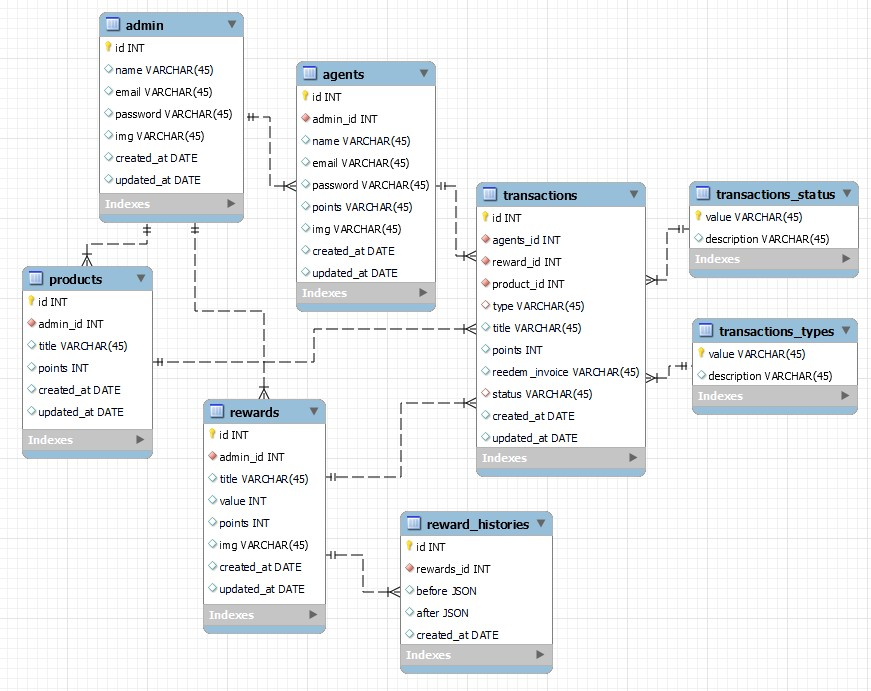
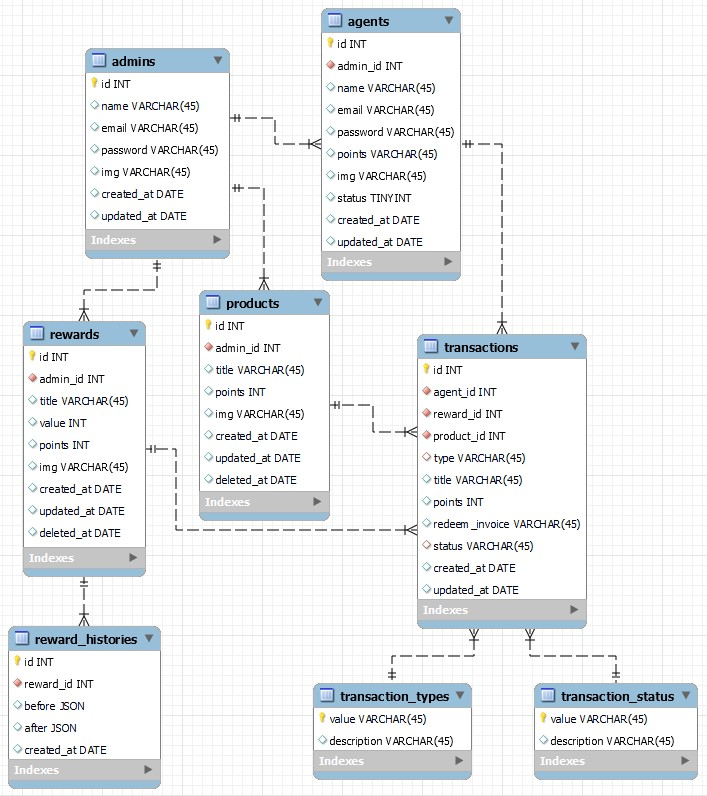
add transaction for admin & agent (#18)

Changed region(s): [[0.0, 0.0, 0.9958, 1.0]]

diff --git a/src/agents/repositories/record.go b/src/agents/repositories/record.go
@@ -3,20 +3,22 @@ package repositories
 import (
 	"github.com/google/uuid"
 	"github.com/yossdev/mypoints-rest-api/src/agents/entities"
+	_t "github.com/yossdev/mypoints-rest-api/src/transactions/repositories"
 	"time"
 )
 
 type Agent struct {
-	ID        uuid.UUID `gorm:"primaryKey; type:uuid; default:uuid_generate_v4()"`
-	AdminID   uuid.UUID `gorm:"type:uuid; not null"`
-	Name      string    `gorm:"not null"`
-	Email     string    `gorm:"unique; not null"`
-	Password  string    `gorm:"not null"`
-	Points    int32     `gorm:"not null; default:0"`
-	Img       string
-	Status    bool      `gorm:"not null; default:true"`
-	CreatedAt time.Time `gorm:"not null; default: now()"`
-	UpdatedAt time.Time `gorm:"not null; default: now()"`
+	ID           uuid.UUID `gorm:"primaryKey; type:uuid; default:uuid_generate_v4()"`
+	AdminID      uuid.UUID `gorm:"type:uuid; not null"`
+	Name         string    `gorm:"not null"`
+	Email        string    `gorm:"unique; not null"`
+	Password     string    `gorm:"not null"`
+	Points       int32     `gorm:"not null; default:0"`
+	Img          string
+	Status       bool             `gorm:"not null; default:true"`
+	Transactions []_t.Transaction `gorm:"constraint:OnUpdate:RESTRICT,OnDelete:RESTRICT;"`
+	CreatedAt    time.Time        `gorm:"not null; default: now()"`
+	UpdatedAt    time.Time        `gorm:"not null; default: now()"`
 }
 
 func (rec *Agent) toDomain() *entities.Domain {

diff --git a/src/transactions/router/http_router.go b/src/transactions/router/http_router.go
@@ -1,0 +1,37 @@
+package router
+
+import (
+	"github.com/yossdev/mypoints-rest-api/internal/middleware"
+	"github.com/yossdev/mypoints-rest-api/internal/web"
+	"github.com/yossdev/mypoints-rest-api/src/transactions/handlers"
+	"github.com/yossdev/mypoints-rest-api/src/transactions/repositories"
+	"github.com/yossdev/mypoints-rest-api/src/transactions/services"
+)
+
+type HttpRouter struct {
+	web.RouterStruct
+}
+
+func NewHttpRoute(r HttpRouter) HttpRouter {
+	return r
+}
+
+func (r *HttpRouter) GetRoute() {
+	transactionPsqlRepository := repositories.NewTransactionPsqlRepository(r.PsqlDB)
+	transactionService := services.NewTransactionService(transactionPsqlRepository)
+	transactionHandler := handlers.NewHttpHandler(transactionService)
+
+	api := r.Web.Group("api")
+	v1 := api.Group("/v1")
+
+	admin := v1.Group("/:admin/transactions") // admin param for agent id
+	agent := v1.Group("/:agent/transactions") // agent param for agent id
+
+	// Private
+	// Agent API only for agent
+	agent.Get("/", middleware.JwtVerifyToken, transactionHandler.GetTransactions)
+	agent.Get("/:id", middleware.JwtVerifyToken, transactionHandler.GetTransactionDetail)
+
+	// Admin API only for admin
+	admin.Get("/", middleware.JwtVerifyToken, transactionHandler.GetTransactionsAdmin)
+}

diff --git a/src/transactions/repositories/record.go b/src/transactions/repositories/record.go
@@ -1,0 +1,32 @@
+package repositories
+
+import (
+	"github.com/google/uuid"
+	"time"
+)
+
+type Transaction struct {
+	ID      uuid.UUID `gorm:"primaryKey; type:uuid; default:uuid_generate_v4()"`
+	AgentID uuid.UUID `gorm:"type:uuid; not null"`
+	//RewardID      int32
+	//ProductID     int32
+	Type          string `gorm:"not null"`
+	Title         string `gorm:"not null"`
+	Points        int32  `gorm:"not null"`
+	RedeemInvoice string
+	Status        string    `gorm:"not null; default:Pending"`
+	CreatedAt     time.Time `gorm:"not null; default: now()"`
+	UpdatedAt     time.Time `gorm:"not null; default: now()"`
+}
+
+type TransactionStatus struct {
+	Value        string        `gorm:"primaryKey; unique"`
+	Description  string        `gorm:"not null"`
+	Transactions []Transaction `gorm:"foreignKey:Status; constraint:OnUpdate:RESTRICT,OnDelete:RESTRICT;"`
+}
+
+type TransactionType struct {
+	Value        string        `gorm:"primaryKey; unique"`
+	Description  string        `gorm:"not null"`
+	Transactions []Transaction `gorm:"foreignKey:Type; constraint:OnUpdate:RESTRICT,OnDelete:RESTRICT;"`
+}

diff --git a/src/transactions/entities/domain.go b/src/transactions/entities/domain.go
@@ -1,0 +1,44 @@
+package entities
+
+import (
+	"github.com/google/uuid"
+	"time"
+)
+
+type Domain struct {
+	ID      uuid.UUID
+	AgentID uuid.UUID
+	//RewardID      int32
+	//ProductID     int32
+	Type          string
+	Title         string
+	Points        int32
+	RedeemInvoice string
+	Status        string
+	CreatedAt     time.Time
+	UpdatedAt     time.Time
+}
+
+type TransactionStatus struct {
+	Value        string
+	Description  string
+	Transactions []Domain
+}
+
+type TransactionType struct {
+	Value        string
+	Description  string
+	Transactions []Domain
+}
+
+type Service interface {
+	GetTransactions() error
+	GetTransactionDetail() error
+	GetTransactionsAdmin() error
+}
+
+type PsqlRepository interface {
+	GetMany() error
+	GetOne() error
+	GetManyAdmin() error
+}

diff --git a/internal/routes/routes.go b/internal/routes/routes.go
@@ -9,6 +9,7 @@ import (
 	"github.com/yossdev/mypoints-rest-api/internal/web"
 	_adminRoute "github.com/yossdev/mypoints-rest-api/src/admins/router"
 	_agentRoute "github.com/yossdev/mypoints-rest-api/src/agents/router"
+	_transactionRoute "github.com/yossdev/mypoints-rest-api/src/transactions/router"
 )
 
 type RouterStruct struct {
@@ -57,6 +58,13 @@ func (r *RouterStruct) GetRoutes() {
 	}
 	agentRouter := _agentRoute.NewHttpRoute(agentRouterStruct)
 	agentRouter.GetRoute()
+
+	// Transaction Route
+	transactionRouterStruct := _transactionRoute.HttpRouter{
+		RouterStruct: webRouterConfig,
+	}
+	transactionRouter := _transactionRoute.NewHttpRoute(transactionRouterStruct)
+	transactionRouter.GetRoute()
 
 	// handling 404 error
 	v1.Use(func(c *fiber.Ctx) error {

diff --git a/src/agents/entities/domain.go b/src/agents/entities/domain.go
@@ -3,20 +3,22 @@ package entities
 import (
 	"github.com/google/uuid"
 	"github.com/yossdev/mypoints-rest-api/internal/utils/auth"
+	_transaction "github.com/yossdev/mypoints-rest-api/src/transactions/entities"
 	"time"
 )
 
 type Domain struct {
-	ID        uuid.UUID
-	AdminID   uuid.UUID
-	Name      string
-	Email     string
-	Password  string
-	Points    int32
-	Img       string
-	Status    bool
-	CreatedAt time.Time
-	UpdatedAt time.Time
+	ID           uuid.UUID
+	AdminID      uuid.UUID
+	Name         string
+	Email        string
+	Password     string
+	Points       int32
+	Img          string
+	Status       bool
+	Transactions []_transaction.Domain
+	CreatedAt    time.Time
+	UpdatedAt    time.Time
 }
 
 type Service interface {

diff --git a/src/transactions/handlers/http_handler.go b/src/transactions/handlers/http_handler.go
@@ -1,0 +1,28 @@
+package handlers
+
+import (
+	"github.com/gofiber/fiber/v2"
+	"github.com/yossdev/mypoints-rest-api/src/transactions/entities"
+)
+
+type transactionHandler struct {
+	transactionService entities.Service
+}
+
+func NewHttpHandler(s entities.Service) *transactionHandler {
+	return &transactionHandler{
+		transactionService: s,
+	}
+}
+
+func (h *transactionHandler) GetTransactions(c *fiber.Ctx) error {
+	return nil
+}
+
+func (h *transactionHandler) GetTransactionDetail(c *fiber.Ctx) error {
+	return nil
+}
+
+func (h *transactionHandler) GetTransactionsAdmin(c *fiber.Ctx) error {
+	return nil
+}

diff --git a/app.go b/app.go
@@ -10,6 +10,7 @@ import (
 	"github.com/yossdev/mypoints-rest-api/internal/web"
 	_admin "github.com/yossdev/mypoints-rest-api/src/admins/repositories"
 	_agent "github.com/yossdev/mypoints-rest-api/src/agents/repositories"
+	_transaction "github.com/yossdev/mypoints-rest-api/src/transactions/repositories"
 	"gorm.io/gorm"
 	"log"
 )
@@ -58,6 +59,9 @@ func dbMigrate(db *gorm.DB) {
 	err := db.AutoMigrate(
 		&_admin.Admin{},
 		&_agent.Agent{},
+		&_transaction.TransactionType{},
+		&_transaction.TransactionStatus{},
+		&_transaction.Transaction{},
 	)
 	if err != nil {
 		log.Fatal(err)

diff --git a/src/transactions/repositories/psql.go b/src/transactions/repositories/psql.go
@@ -1,0 +1,28 @@
+package repositories
+
+import (
+	"github.com/yossdev/mypoints-rest-api/infrastuctures/db"
+	"github.com/yossdev/mypoints-rest-api/src/transactions/entities"
+)
+
+type transactionPsqlRepository struct {
+	DB db.PsqlDB
+}
+
+func NewTransactionPsqlRepository(p db.PsqlDB) entities.PsqlRepository {
+	return &transactionPsqlRepository{
+		DB: p,
+	}
+}
+
+func (p *transactionPsqlRepository) GetMany() error {
+	return nil
+}
+
+func (p *transactionPsqlRepository) GetOne() error {
+	return nil
+}
+
+func (p *transactionPsqlRepository) GetManyAdmin() error {
+	return nil
+}

diff --git a/src/transactions/services/transaction_service.go b/src/transactions/services/transaction_service.go
@@ -1,0 +1,25 @@
+package services
+
+import "github.com/yossdev/mypoints-rest-api/src/transactions/entities"
+
+type transactionService struct {
+	transactionPsqlRepository entities.PsqlRepository
+}
+
+func NewTransactionService(p entities.PsqlRepository) entities.Service {
+	return &transactionService{
+		transactionPsqlRepository: p,
+	}
+}
+
+func (s *transactionService) GetTransactions() error {
+	return nil
+}
+
+func (s *transactionService) GetTransactionDetail() error {
+	return nil
+}
+
+func (s *transactionService) GetTransactionsAdmin() error {
+	return nil
+}

diff --git a/src/transactions/dto/transaction_req.go b/src/transactions/dto/transaction_req.go
@@ -1,0 +1,1 @@
+package dto

diff --git a/src/transactions/dto/transaction_res.go b/src/transactions/dto/transaction_res.go
@@ -1,0 +1,1 @@
+package dto
